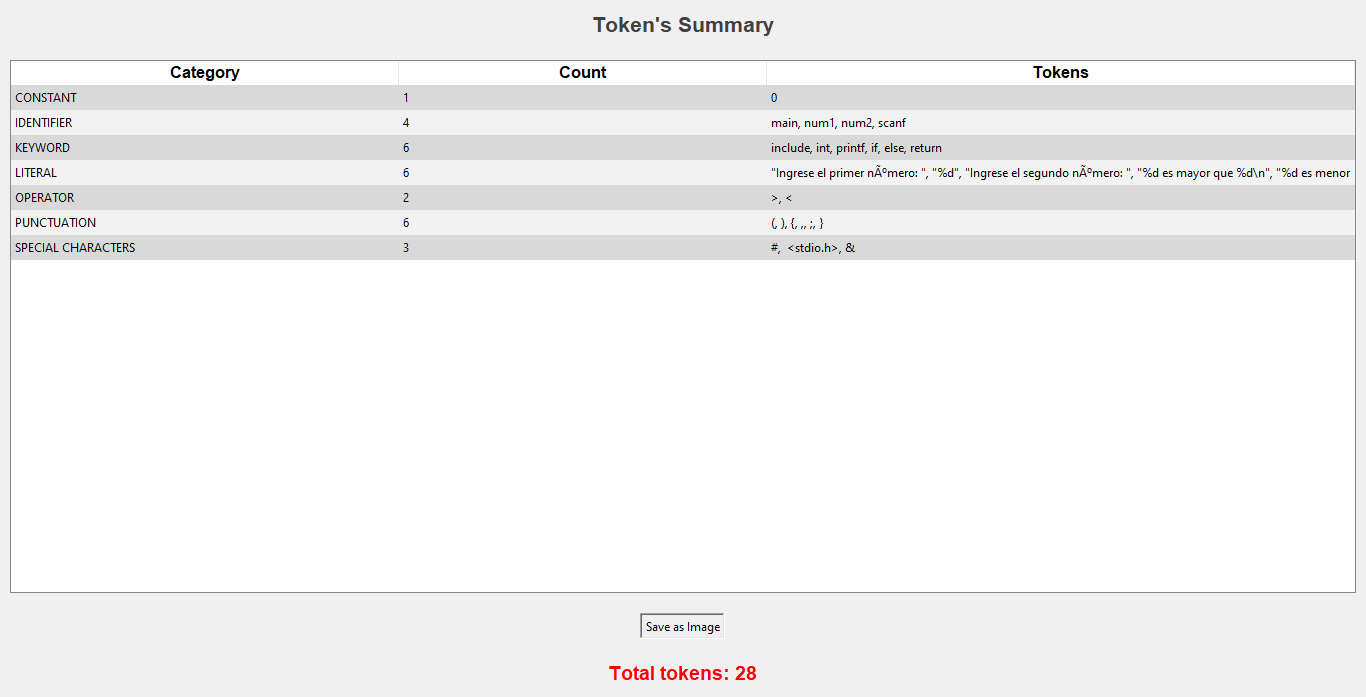
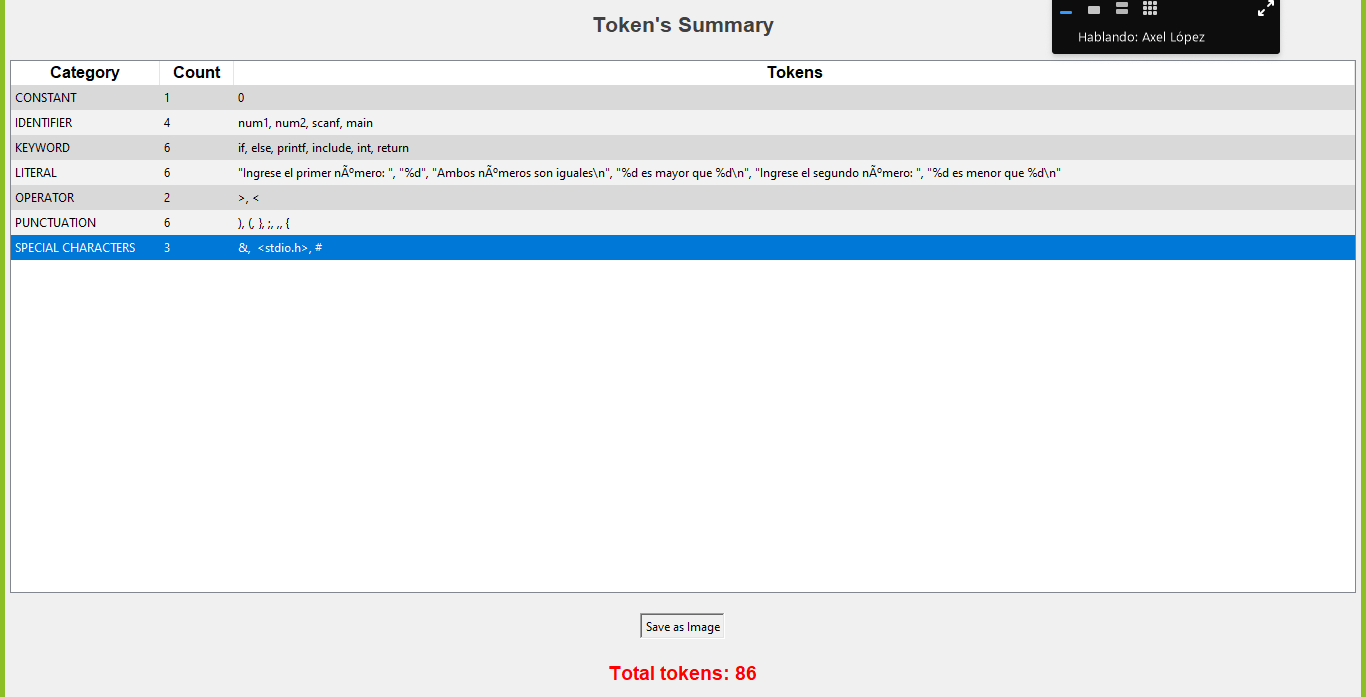
Modificacion en funcion lexer. Conteo tokens repetidos y exclusion de SPACE, NEWLINE, COMMENT y OTHERS

diff --git a/lexer.py b/lexer.py
@@ -9,13 +9,14 @@ from PIL import ImageGrab
 token_exprs = [
     (r"auto|break|case|char|const|continue|default|do|double|else|enum|extern|float|for|goto|if|int|long|register|return|short|signed|sizeof|static|struct|switch|typedef|union|unsigned|void|volatile|while|printf|include", "KEYWORD"),
     (r"[a-zA-Z_][a-zA-Z_0-9]*", "IDENTIFIER"),
-    (r"\+|\-|\*|\/|\%|\=\=|\!\=|\>|\>\=|\<|\<\=|\&\&|\|\||\=", "OPERATOR"),
+    (r"\s*<[^>]*>|\<.*?\>", "OTHER"),
+    (r"\+|\-|\*|\/|\%|\=\=|\!\=|\>|\>\=|\<|\<\=|\&\&|\|\||\=|\<\<|\>\>|\<\<\=|\>\>\=", "OPERATOR"),
     #COMMENT
     (r"\/\/.*", "COMMENT"),
     (r"\b[0-9]+\b|\d+", "CONSTANT"),
     (r"\".*?\"", "LITERAL"),
     (r"\;|\,|\:|\[|\]|\(|\)|\{|\}", "PUNCTUATION"),
-    (r"\\n|\\t|\\r|\\b|\\a|\\f|\\v|\$|\°|\<.*?\>|\#|\s*<[^>]*>|\&", "SPECIAL CHARACTERS"),
+    (r"\\n|\\t|\\r|\\b|\\a|\\f|\\v|\$|\°|\#|\&", "SPECIAL CHARACTERS"),
     (r"\s+", "SPACE"),
     (r"\n", "NEWLINE"),
 ]
@@ -25,7 +26,11 @@ token_exprs = [(re.compile(pattern), tag) for pattern, tag in token_exprs]
 
 def lexer(code_lines):
     tokens = []
-    seen_tokens = set()  # Conjunto para llevar un registro de tokens ya vistos
+    seen_tokens = set()  # Set to track unique tokens
+    total_token_count = 0  # Counter for all valid tokens generated
+
+    # Define the token types to exclude from counting and adding
+    excluded_tags = {"COMMENT", "NEWLINE", "SPACE", "OTHER"}
 
     for line in code_lines:
         while line:
@@ -34,27 +39,30 @@ def lexer(code_lines):
                 match = regex.match(line)
                 if match:
                     value = match.group(0)
-                    if tag != "SPACE":
-                        token = (value, tag)
+                    token = (value, tag)
+
+                    # Only increment token count and track tokens if not excluded
+                    if tag not in excluded_tags:
+                        total_token_count += 1  # Count every valid token
+                        # Add to seen tokens only if not already seen
                         if token not in seen_tokens:
-                            tokens.append(token)
                             seen_tokens.add(token)
-                    line = line[len(value):]
+                    
+                    line = line[len(value):]  # Move to the next part of the line
                     break
             if not match:
                 print(f"Error: Unrecognized token: {line}")
                 break
 
-    return tokens
+    return total_token_count, seen_tokens
 
-
-def show_token_summary(tokens):
+def show_token_summary(num_tokens, tokens):
     token_count = defaultdict(int)
     token_list_by_category = defaultdict(list)
-    total_tokens = len(tokens)
+    total_tokens = num_tokens
 
     for value, tag in tokens:
-        if tag not in ["SPACE", "NEWLINE", "COMMENT"]:
+        if tag not in ["SPACE", "NEWLINE", "COMMENT", "OTHER"]:
             token_count[tag] += 1
             token_list_by_category[tag].append(value)
 
@@ -119,8 +127,8 @@ def main():
         print(f"Error reading file {filename}: {e}")
         sys.exit(1)
 
-    tokens = lexer(code_lines)
-    show_token_summary(tokens)
+    num_tokens, tokens = lexer(code_lines)
+    show_token_summary(num_tokens, tokens)
 
 if __name__ == "__main__":
     main()
